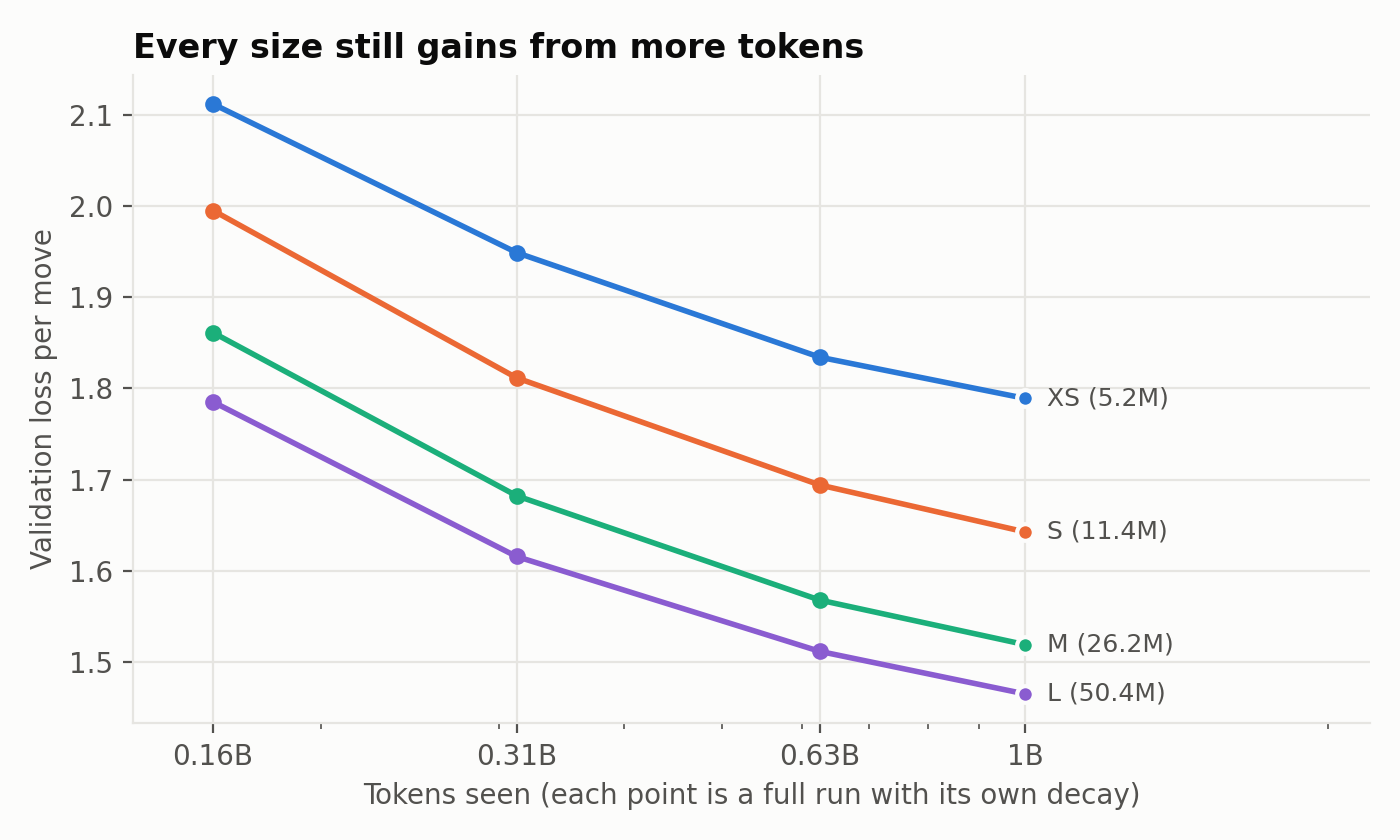
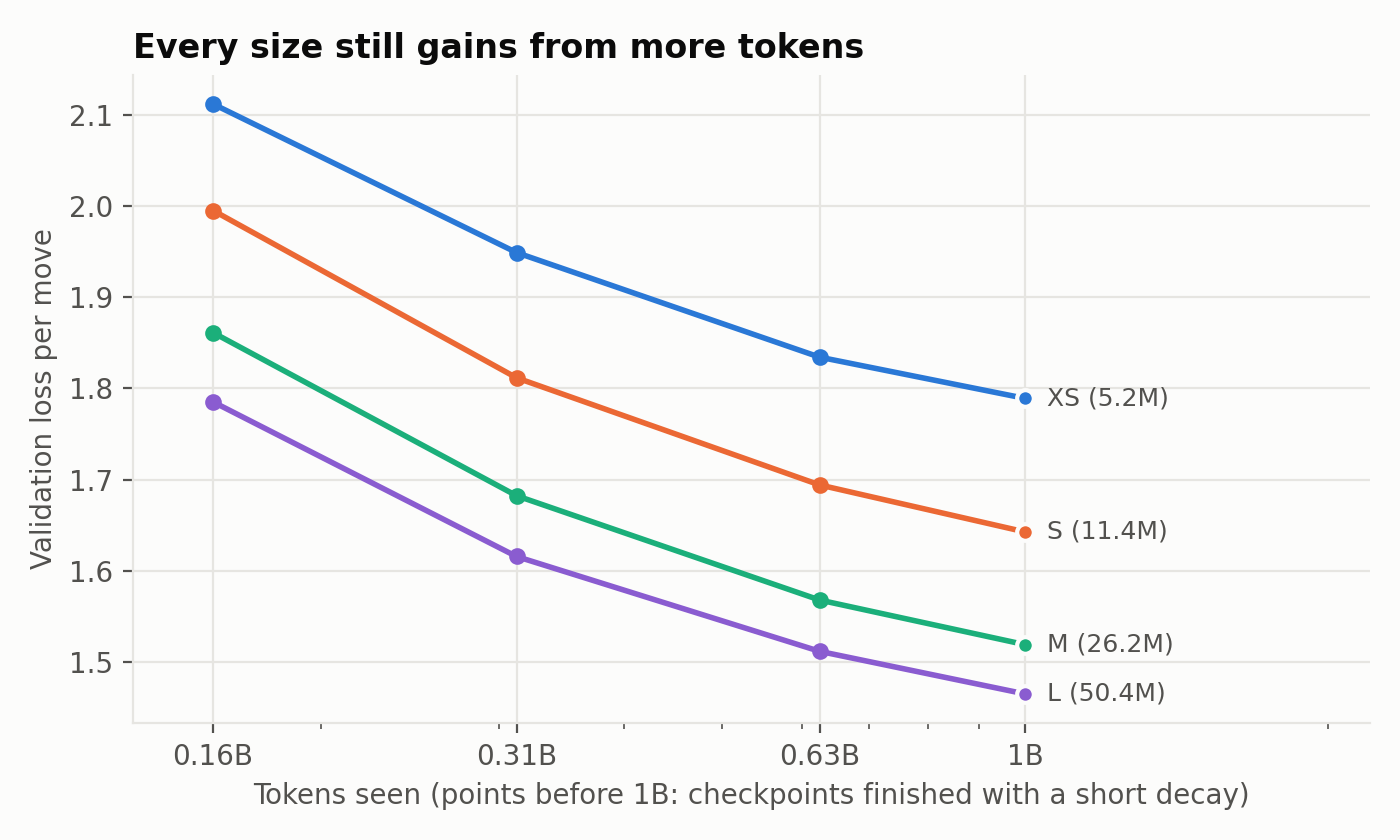
Add blog post draft, fix token-sweep axis label

Changed region(s): [[0.1843, 0.9286, 0.8907, 0.9595]]

diff --git a/scripts/make_figures.py b/scripts/make_figures.py
@@ -223,7 +223,7 @@ def token_sweep():
         end_label(ax, x[-1], y[-1], SIZE_NAME[m], SIZE_COLOR[m])
     ax.set_xscale("log")
     ax.set_xticks([0.156, 0.313, 0.625, 1.0], ["0.16B", "0.31B", "0.63B", "1B"])
-    ax.set(xlabel="Tokens seen (each point is a full run with its own decay)", ylabel="Validation loss per move", xlim=(0.13, 2.2))
+    ax.set(xlabel="Tokens seen (points before 1B: checkpoints finished with a short decay)", ylabel="Validation loss per move", xlim=(0.13, 2.2))
     ax.set_title("Every size still gains from more tokens")
     save(fig, "token_sweep.png")
 

diff --git a/docs/BLOG.md b/docs/BLOG.md
@@ -1,0 +1,189 @@
+# Small GPTs that learn chess from move lists
+
+We trained four small GPT models on chess games. They read the moves of a game and predict the next move.
+They get no board and no rules. This post covers three questions:
+
+1. How does the model improve with size?
+2. How well does it play?
+3. Does it build a picture of the board inside?
+
+Code, logs and weights: <https://github.com/AshishSinha5/chess-lm> and <https://huggingface.co/sinha/chess-lm>.
+
+![The L model (white) plays Stockfish](gifs/play_l.gif)
+
+## What we built
+
+```mermaid
+flowchart LR
+  A[Lichess games<br>1800+ players] --> B[one token<br>per move]
+  B --> C[GPT, 4 sizes]
+  C --> D[scores for<br>the next move]
+  C --> E[hidden states]
+  E --> F[probe:<br>read the board]
+```
+The pipeline. The top path is the player. The bottom path is how we look inside.
+
+- **Data.** Games from the Lichess open database (CC0), months 2026-08 and 2026-09. Both players are rated 1800 or more. We use 22.4M training games, 1.64B tokens.
+- **Tokens.** One token per move in UCI form, such as `e2e4`. The vocabulary has 1,971 tokens.
+- **Models.** A plain decoder-only transformer. Each run reads 1B tokens, one pass, with no repeated game.
+
+| Model | Parameters | Layers | Width |
+|---|---|---|---|
+| XS | 5.2M | 6 | 256 |
+| S | 11.4M | 6 | 384 |
+| M | 26.2M | 8 | 512 |
+| L | 50.4M | 10 | 640 |
+
+We train only on human moves. The model learns to predict what a strong amateur plays, not what is best.
+
+## 1. Loss falls with size, and the last step is small
+
+![Loss by size](../results/figures/loss_by_size.png)
+
+The loss is the cross-entropy per move on games the model never saw. Lower is better.
+
+| Model | Loss per move | Step from the model before |
+|---|---|---|
+| XS | 1.789 | |
+| S | 1.643 | 0.146 |
+| M | 1.519 | 0.124 |
+| L | 1.465 | 0.054 |
+
+The step from M to L is less than half of the steps before it. A second seed moves each loss by 0.002 to 0.006, so the small step is real.
+
+We looked for the cause and found two answers that are wrong.
+
+- **Not the learning rate.** We trained L again at half the rate. The loss at 1B tokens changed by only 0.008.
+- **Not too little data.** L may need more data than M. If so, a longer run should widen its lead. We trained both on all 1.6B tokens.
+
+| | 1B tokens | 1.6B tokens |
+|---|---|---|
+| M | 1.519 | 1.482 |
+| L | 1.465 | 1.431 |
+| L lead over M | 0.054 | 0.051 |
+
+The lead did not grow. The token sweep agrees: every size still gains from more tokens, but L gains slightly less than M.
+
+![Token sweep](../results/figures/token_sweep.png)
+
+**Our best guess, not tested.** The data are human moves. Strong players pick between several good moves at random.
+No model can remove that part of the loss. The loss steps and the Elo steps both flatten near L, which fits a noise floor.
+A second, less likely cause is the shape of L (depth against width). We did not test either cause.
+
+## 2. Strength against Stockfish
+
+We played each model against Stockfish 19 with its `UCI_Elo` limit set to 1320 and 1500. Stockfish gets 0.05 seconds per move.
+The first 6 plies (half-moves) come from real games. The models play both colours. Each model plays 400 games.
+
+The models do not know the rules, so they sometimes name an illegal move. We score the games two ways.
+
+- **Lenient rule.** The program skips an illegal top move and plays the model's best legal move.
+- **Strict rule.** A game with one illegal top move counts as a loss for the model.
+
+![Elo by size](../results/figures/elo_by_size.png)
+
+| Model | Top move legal | Elo, lenient | Elo, strict | Games with an illegal move |
+|---|---|---|---|---|
+| XS | 98.4% | 1182 | 934 | 333 of 400 |
+| S | 99.4% | 1296 | 1113 | 273 of 400 |
+| M | 99.6% | 1410 | 1300 | 176 of 400 |
+| L | 99.5% | 1479 | 1376 | 149 of 400 |
+
+- A small error rate adds up over a game. Even L makes at least one illegal top move in 37% of games.
+- The legal-move filter is worth 78 Elo for L and 250 Elo for XS.
+- The strict numbers come from a rerun of the games, and Stockfish is not seeded. The lenient rerun agrees with the first run within its 95% interval.
+
+**Read the Elo with care.** It sits on Stockfish's nominal scale, and Stockfish at 0.05 seconds plays below its nominal level.
+It is not a Lichess or FIDE rating. Use it to compare our models with each other.
+
+The GIFs at the end of the post show each model in a short game.
+
+## 3. Is there a board inside?
+
+The model never sees a board. It sees a list of moves. To play well, it may keep track of where the pieces are.
+We test this with a **probe**. A probe is a small model that reads the hidden state of the network at one point.
+Here it tries to name the piece on each of the 64 squares. We train it on one set of games and score it on other games.
+
+A probe can mislead. It may learn the board by itself, and the network may have no board at all. So we run controls:
+
+- a probe on a model with random weights;
+- a probe trained on shuffled board labels;
+- a probe that sees only the move list, with no network (**move history**).
+
+![Example boards](../results/figures/example_boards.png)
+One test game. The top row is the true board. The bottom row is what the probe on M reads. Orange marks a wrong square.
+
+### The board is there
+
+For M, the best linear probe reads 98.5% of squares right. It gets the whole board right in 53.8% of positions.
+The controls stay far below this. The shuffled-label probe scores about 0.16 in balanced accuracy, against 0.95 for the real probe.
+Most of our results use a plain linear probe. A linear probe finds the board only if the network keeps it in an easy form.
+
+### The model uses it
+
+A probe shows that the information is there. It does not show that the model uses it.
+We removed the 32 directions in the hidden state that the probe uses for the board, and let M continue. Then we measured the loss.
+
+![Removing the board directions](../results/figures/intervention.png)
+
+Removing the board directions hurts far more than removing random directions. We checked one weakness of that test.
+The board directions carry more variance than random ones, and removing variance alone could hurt. So we also removed random directions with the same variance.
+The board directions still hurt 3.7 to 6.7 times more. M uses the board to choose its moves.
+
+### Later in the game, the board beats bookkeeping
+
+Early in a game, the move-history control does very well. It can follow a few moves by itself.
+It has no board rules, so it loses track in long games, and M's probe does better.
+We count in plies, where one ply is one half-move. M beats the control from ply 41 on.
+
+### A bigger model builds a better board
+
+![Board by size](../results/figures/board_by_size.png)
+
+| | XS | M | L |
+|---|---|---|---|
+| Linear probe, balanced accuracy | 0.866 | 0.952 | 0.968 |
+| Whole board right | 23.6% | 53.8% | 65.1% |
+| Beats move history from | never | ply 41 | ply 21 |
+
+XS never beats the bookkeeping control. L beats it from ply 21. Queens are the hardest piece at every size.
+L has a clearly better board than M, yet its loss is only 0.054 lower. We do not know why.
+
+## Surprises and failures
+
+- **A false alarm.** A first test with 300 games showed a random-weight model close to the trained one. The full run with 20k games did not.
+  The small test had too few positions, and the probe did not train long enough. A probe needs enough data before its result means anything.
+- **White and black, not mine and theirs.** In Othello-GPT, the board is stored as "my pieces and their pieces". M stores white and black.
+  The white/black target scores 0.952. The player-relative target scores 0.933.
+- **The most common probe error is the wrong colour.** The probe often finds the right piece type and gets its colour wrong.
+- **The small step from M to L has no known cause.** We ruled out two causes and wrote a guess for the rest.
+
+## Limits
+
+- One seed for each model. Seed 1 is only for the loss at 1B tokens, not for the probes or the games.
+- S was not probed. The intervention ran on M only, so "L uses its board" is not tested.
+- The Elo uses Stockfish at 0.05 seconds, with 400 games per model. It is not a human rating.
+- The models read only the move list. They do not search, so they play weak chess by engine standards.
+- The noise-floor cause for the small M-to-L step is a guess.
+
+## Try it
+
+Each GIF shows a model as white against Stockfish at 1320, for the first 8 moves.
+
+| XS | S | M | L |
+|---|---|---|---|
+| ![XS](gifs/play_xs.gif) | ![S](gifs/play_s.gif) | ![M](gifs/play_m.gif) | ![L](gifs/play_l.gif) |
+
+To play a model yourself:
+
+1. Clone the repo and run `pip install -e . safetensors huggingface_hub`.
+2. Run `python scripts/play_gui.py --size l`. The script downloads the weights from Hugging Face.
+3. Open `http://127.0.0.1:8000` and click to move.
+
+The weights are in `sinha/chess-lm` (Apache 2.0), one folder for each size.
+
+## Where to read more
+
+Everything here is logged. `DECISIONS.md` has each choice and its result (G13 to G28).
+`docs/PROBING.md` teaches the probing method from the start, with the reading list.
+`results/EXPERIMENT_LOG.md` has every command and number.

diff --git a/results/EXPERIMENT_LOG.md b/results/EXPERIMENT_LOG.md
@@ -256,5 +256,5 @@ Steps 1 to 14 are done. Grey steps are not started.
 - Output: `results/eval/strict_vs_lenient.csv`. The published `elo.csv` is unchanged.
 
 ## Planned
-24. **Project write-up.** The other figures in `scripts/make_figures.py` (loss against size, token sweep, Elo), blog post, credibility checklist gaps (strict and lenient done, G28). Optional: illegal-move error analysis.
+24. **Project write-up.** Done: the figures in `scripts/make_figures.py`, the credibility gaps (strict and lenient, G28, references, tokenizer reason) and a blog draft, `docs/BLOG.md`. Left: your read of the draft. Optional: illegal-move error analysis.
 25. **Close out.** Fresh-clone test, final commit, sync of the Claude state.

diff --git a/README.md b/README.md
@@ -194,6 +194,7 @@ Checkpoints: `/workspace/ckpt/NAME`. The run resumes if you start it again. W&B 
 - Split: by CRC32 of the game ID. 98% train, 1% val, 1% test.
 - Elo is anchored to Stockfish. It is not a Lichess or FIDE rating.
 - Data: Lichess open database, <https://database.lichess.org> (CC0).
+- Blog post: `docs/BLOG.md`.
 - Tokenizer: the move token only. The tokenizer ablation is skipped for this project (DECISIONS A6).
 - Licence: Apache 2.0 for the code and the weights (`LICENSE`).
 
